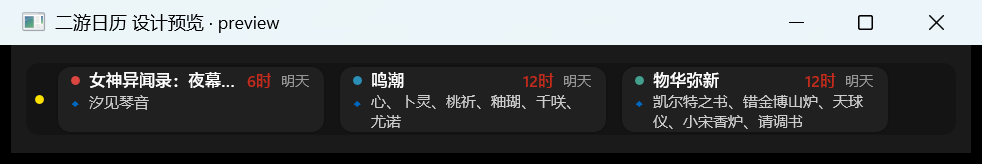
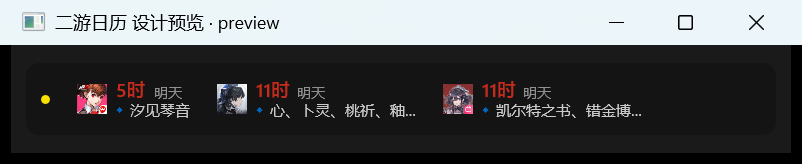
style: v0.1.23 任务栏预览条改为原生图标+两行文字（去卡片，对齐 Win11 天气小组件）
- 图标 20dip + 主行 剩余/截止（紧迫度上色）+ 次行 ◆卡池/⚑活动 + 内容标题
- 3 条总宽 582→474dip；新增 ChipVm.IconUrl；修 XAML 与插件宽度不一致的裁切
- 验证：build 0 warning/0 error；tests 445；深浅色截图正常

diff --git a/src/GachaWidget/Views/PreviewView.xaml b/src/GachaWidget/Views/PreviewView.xaml
@@ -1,8 +1,9 @@
-<?xml version="1.0" encoding="utf-8"?>
+<?xml version="1.0" encoding="utf-8"?>
 <UserControl
     x:Class="GachaWidget.Views.PreviewView"
     xmlns="http://schemas.microsoft.com/winfx/2006/xaml/presentation"
     xmlns:x="http://schemas.microsoft.com/winfx/2006/xaml"
+    xmlns:controls="using:GachaWidget.Controls"
     xmlns:conv="using:GachaWidget.Converters"
     xmlns:vm="using:GachaCalendar.Core.ViewModels"
     xmlns:d="http://schemas.microsoft.com/expression/blend/2008"
@@ -12,16 +13,19 @@
     <UserControl.Resources>
         <conv:BoolToVisibilityConverter x:Key="BoolToVisibility" />
         <conv:HexToBrushConverter x:Key="HexBrush" />
-        <conv:UrgencyToBrushConverter x:Key="UrgencyBrush" />
+        <conv:GameNameToBrushConverter x:Key="GameBrush" />
+        <conv:UrgencyStrongConverter x:Key="UrgencyStrong" />
         <conv:SideToBrushConverter x:Key="SideBrush" />
+        <conv:FirstCharConverter x:Key="FirstChar" />
     </UserControl.Resources>
 
-    <!-- 根透明：任务栏背景由 WidBar 负责，不要自己画。
-         每个 chip 两行：① 色点 + 游戏名 + 短倒计时（紧迫度上色）② 类型标记 + 内容标题 + 截止日。 -->
+    <!-- 任务栏原生观感：不画卡片/边框，直接"图标 + 两行文字"。
+         对齐 Windows 11 天气小组件的形态：图标承担"是什么"，主数字（剩余时间）承担"多急"，
+         次要文字承担"具体内容"。 -->
     <StackPanel
         Orientation="Horizontal"
-        Spacing="8"
-        Padding="6,0"
+        Spacing="18"
+        Padding="10,0"
         VerticalAlignment="Center">
 
         <!-- 数据非实时时只留一个小圆点（比文字省空间），含义放 tooltip -->
@@ -47,72 +51,54 @@
             ItemsSource="{x:Bind Vm.Chips, Mode=OneWay}">
             <ItemsControl.ItemsPanel>
                 <ItemsPanelTemplate>
-                    <StackPanel Orientation="Horizontal" Spacing="8" />
+                    <StackPanel Orientation="Horizontal" Spacing="18" />
                 </ItemsPanelTemplate>
             </ItemsControl.ItemsPanel>
             <ItemsControl.ItemTemplate>
                 <DataTemplate x:DataType="vm:ChipVm">
-                    <Border
-                        Width="180"
-                        Padding="9,1"
-                        Background="{ThemeResource CardBackgroundFillColorDefaultBrush}"
-                        BorderBrush="{ThemeResource CardStrokeColorDefaultBrush}"
-                        BorderThickness="1"
-                        CornerRadius="9"
+                    <Grid
+                        MaxWidth="136"
+                        ColumnSpacing="6"
                         ToolTipService.ToolTip="{x:Bind Tip}">
-                        <Grid RowSpacing="0">
-                            <Grid.RowDefinitions>
-                                <RowDefinition Height="Auto" />
-                                <RowDefinition Height="Auto" />
-                            </Grid.RowDefinitions>
+                        <Grid.ColumnDefinitions>
+                            <ColumnDefinition Width="Auto" />
+                            <ColumnDefinition Width="*" />
+                        </Grid.ColumnDefinitions>
 
-                            <!-- ① 游戏 + 倒计时 + 截止日 -->
-                            <Grid ColumnSpacing="6">
-                                <Grid.ColumnDefinitions>
-                                    <ColumnDefinition Width="Auto" />
-                                    <ColumnDefinition Width="*" />
-                                    <ColumnDefinition Width="Auto" />
-                                    <ColumnDefinition Width="Auto" />
-                                </Grid.ColumnDefinitions>
-                                <Border
-                                    Width="6"
-                                    Height="6"
-                                    VerticalAlignment="Center"
-                                    Background="{x:Bind Color, Converter={StaticResource HexBrush}}"
-                                    CornerRadius="3" />
+                        <!-- 游戏图标：任务栏上比文字更快识别"是哪款" -->
+                        <controls:GameIcon
+                            Width="20"
+                            Height="20"
+                            VerticalAlignment="Center"
+                            Glyph="{x:Bind FullName, Converter={StaticResource FirstChar}}"
+                            IconUrl="{x:Bind IconUrl}" />
+
+                        <StackPanel
+                            Grid.Column="1"
+                            VerticalAlignment="Center"
+                            Spacing="-1">
+                            <!-- 主信息：还剩多久 + 截止日（紧迫度上色） -->
+                            <StackPanel Orientation="Horizontal" Spacing="5">
                                 <TextBlock
-                                    Grid.Column="1"
-                                    VerticalAlignment="Center"
-                                    FontSize="11"
+                                    FontSize="12.5"
                                     FontWeight="SemiBold"
-                                    Foreground="{ThemeResource TextFillColorPrimaryBrush}"
-                                    Text="{x:Bind GameName}"
-                                    TextTrimming="CharacterEllipsis" />
-                                <TextBlock
-                                    Grid.Column="2"
-                                    VerticalAlignment="Center"
-                                    FontSize="10.5"
-                                    FontWeight="SemiBold"
-                                    Foreground="{x:Bind UrgencyLevel, Converter={StaticResource UrgencyBrush}}"
+                                    Foreground="{x:Bind UrgencyLevel, Converter={StaticResource UrgencyStrong}}"
                                     Text="{x:Bind Remaining}" />
                                 <TextBlock
-                                    Grid.Column="3"
-                                    VerticalAlignment="Center"
+                                    VerticalAlignment="Bottom"
                                     FontSize="9.5"
                                     Foreground="{ThemeResource TextFillColorTertiaryBrush}"
                                     Text="{x:Bind Deadline}" />
-                            </Grid>
-
-                            <!-- ② 卡池/活动 + 内容标题（长角色列表允许折两行） -->
-                            <Grid Grid.Row="1" ColumnSpacing="6">
+                            </StackPanel>
+                            <!-- 次信息：◆/⚑ 类型 + 内容标题 -->
+                            <Grid ColumnSpacing="4">
                                 <Grid.ColumnDefinitions>
                                     <ColumnDefinition Width="Auto" />
                                     <ColumnDefinition Width="*" />
                                 </Grid.ColumnDefinitions>
                                 <TextBlock
-                                    VerticalAlignment="Top"
-                                    Margin="0,2,0,0"
-                                    FontSize="9"
+                                    VerticalAlignment="Center"
+                                    FontSize="8"
                                     Foreground="{x:Bind IsGacha, Converter={StaticResource SideBrush}}"
                                     Text="{x:Bind SideGlyph}" />
                                 <TextBlock
@@ -120,13 +106,12 @@
                                     VerticalAlignment="Center"
                                     FontSize="10"
                                     Foreground="{ThemeResource TextFillColorSecondaryBrush}"
-                                    MaxLines="2"
+                                    MaxWidth="104"
                                     Text="{x:Bind Title}"
-                                    TextTrimming="CharacterEllipsis"
-                                    TextWrapping="Wrap" />
+                                    TextTrimming="CharacterEllipsis" />
                             </Grid>
-                        </Grid>
-                    </Border>
+                        </StackPanel>
+                    </Grid>
                 </DataTemplate>
             </ItemsControl.ItemTemplate>
         </ItemsControl>

diff --git a/src/GachaWidget/Converters/ScheduleConverters.cs b/src/GachaWidget/Converters/ScheduleConverters.cs
@@ -101,3 +101,28 @@ public sealed class SideToBrushConverter : IValueConverter
 	public object ConvertBack(object value, Type targetType, object parameter, string language)
 		=> throw new NotSupportedException();
 }
+
+/// <summary>预览条专用：1=红、2=琥珀，其余用主文字色（任务栏上不要一片灰）。</summary>
+public sealed class UrgencyStrongConverter : IValueConverter
+{
+	public object Convert(object value, Type targetType, object parameter, string language)
+	{
+		var level = value is int i ? i : 0;
+		var key = level switch
+		{
+			1 => "SystemFillColorCriticalBrush",
+			2 => "SystemFillColorCautionBrush",
+			_ => "TextFillColorPrimaryBrush",
+		};
+
+		if (Application.Current.Resources.TryGetValue(key, out var resource) && resource is Brush brush)
+		{
+			return brush;
+		}
+
+		return new SolidColorBrush(Color.FromArgb(255, 0x20, 0x20, 0x20));
+	}
+
+	public object ConvertBack(object value, Type targetType, object parameter, string language)
+		=> throw new NotSupportedException();
+}

diff --git a/src/GachaWidget/Plugin/GachaWidgetPlugin.cs b/src/GachaWidget/Plugin/GachaWidgetPlugin.cs
@@ -18,18 +18,18 @@ namespace GachaWidget.Plugin;
 /// </summary>
 public sealed class GachaWidgetPlugin : WidgetPluginBase, IConfigurableWidgetPlugin, IWidgetFlyoutLifecycle
 {
-	private const string PluginVersion = "0.1.22";
+	private const string PluginVersion = "0.1.23";
 	private const string PluginId = "com.eastmg.gachacalendar";
 	private const string PluginName = "二游日历";
 
 	/// <summary>每个 chip 预留的逻辑宽度（含间距）；预览条总宽由当前 chip 数决定。</summary>
-	private const int ChipWidth = 180;
+	private const int ChipWidth = 136;
 
 	/// <summary>chip 之间的间距（与 PreviewView 的 StackPanel Spacing 一致）。</summary>
-	private const int ChipSpacing = 8;
+	private const int ChipSpacing = 18;
 
 	/// <summary>预览条左右内边距（与 PreviewView 的 Padding 一致）。</summary>
-	private const int PreviewPadding = 12;
+	private const int PreviewPadding = 16;
 
 	private IWidgetContext? _context;
 	private DispatcherQueue? _queue;

diff --git a/src/GachaCalendar.Core/ViewModels/WidgetViewModel.cs b/src/GachaCalendar.Core/ViewModels/WidgetViewModel.cs
@@ -1,4 +1,4 @@
-using System.Collections.ObjectModel;
+using System.Collections.ObjectModel;
 using System.ComponentModel;
 using System.Runtime.CompilerServices;
 using GachaCalendar.Core.Models;
@@ -373,6 +373,7 @@ public sealed class WidgetViewModel : INotifyPropertyChanged
 				Title = title,
 				IsGacha = kind == "卡池",
 				Color = game.Color,
+				IconUrl = game.Icon,
 				UrgencyLevel = left < TimeSpan.FromDays(1) ? 1 : (left < TimeSpan.FromDays(7) ? 2 : 0),
 				Deadline = deadline,
 				Tip = $"{game.Name}\n{kind}：{title}\n{dates}\n还剩 {full}\n截止：{end:MM-dd HH:mm}",

diff --git a/src/GachaWidget/Design/DesignPreviewWindow.cs b/src/GachaWidget/Design/DesignPreviewWindow.cs
@@ -38,14 +38,14 @@ public sealed class DesignPreviewWindow : Window
 			{
 				var strip = new Border
 				{
-					Width = 620,
+					Width = 500,
 					Height = 48,
 					Background = new SolidColorBrush(theme == "light" ? Color.FromArgb(255, 0xF9, 0xF9, 0xF9) : Color.FromArgb(255, 0x14, 0x14, 0x14)),
 					CornerRadius = new CornerRadius(8),
 					Child = new PreviewView(vm) { VerticalAlignment = VerticalAlignment.Center },
 				};
 				root.Children.Add(strip);
-				dipWidth = 640;
+				dipWidth = 520;
 				dipHeight = 72;
 				break;
 			}

diff --git a/src/GachaCalendar.Core/ViewModels/ChipVm.cs b/src/GachaCalendar.Core/ViewModels/ChipVm.cs
@@ -41,6 +41,9 @@ public sealed class ChipVm
 	/// <summary>截止日期短文案：今天 / 明天 / MM-dd。</summary>
 	public string Deadline { get; init; } = "";
 
+	/// <summary>游戏图标 URL（任务栏 chip 用图标代替文字承担"是哪款游戏"）。</summary>
+	public string IconUrl { get; init; } = "";
+
 	/// <summary>类型图案：◆ 卡池 / ⚑ 活动（任务栏上不占文字宽度也能分辨）。</summary>
 	public string SideGlyph => IsGacha ? "◆" : "⚑";
 }

diff --git a/CHANGELOG.md b/CHANGELOG.md
@@ -2,6 +2,15 @@
 
 格式：每条一行，版本号与 `src/GachaWidget/GachaWidget.csproj` 的 `<Version>` 对应。
 
+## v0.1.23（2026-10-21）
+
+- style: **任务栏预览条去掉卡片/边框，改为原生"图标 + 两行文字"**（对齐 Windows 11 天气小组件形态）：
+  - 左：游戏图标（20dip，失败退化首字块）；右：主行「剩余时间（紧迫度上色）+ 截止日」，
+    次行「◆卡池 / ⚑活动 + 内容标题」；不再画白底圆角卡片，任务栏上不再像"贴了三块膏药"。
+  - 3 条总宽 474dip（原 582dip），更接近原生小组件的体量。
+- fix: 补 `ChipVm.IconUrl`（图标由 catalog 带入），修正 XAML chip 宽度与插件计算不一致导致的裁切。
+- 验证：build 0 warning/0 error；tests 445；深浅色 harness 预览截图正常。
+
 ## v0.1.22（2026-10-21）
 
 - feat: **任务栏预览条信息量重做**（用户反馈"展示了个寂寞"）：

diff --git a/docs/05-验收清单.md b/docs/05-验收清单.md
@@ -28,7 +28,7 @@ powershell -NoProfile -ExecutionPolicy Bypass -File tools\build-and-register.ps1
 前置：WidBar 已安装、开发者模式已开、Widget 已注册。
 
 1. 打开 WidBar → Layout 页，组件目录里应出现「二游日历」
-2. 拖到任务栏空位 → 预览条出现 1–3 个两行 chip（游戏+倒计时+截止日 / ◆卡池或⚑活动+内容标题）
+2. 拖到任务栏空位 → 预览条出现 1–3 条（图标 + 两行：剩余/截止 · ◆卡池或⚑活动+内容标题，无卡片背景）
 3. 点预览 → 展开面板：28 款可见条目、六列、顶部"联网数据 · 成功 N/M"、底部"刷新：时间"
 4. 面板右上「刷新」→ 状态变为刷新中，随后时间更新（数据源 6h 一轮，短时间多次刷新可能 304）
 5. 齿轮 → 设置页：改预览条数/隐藏条目/排序/刷新间隔/数据源，保存后任务栏实时变化
